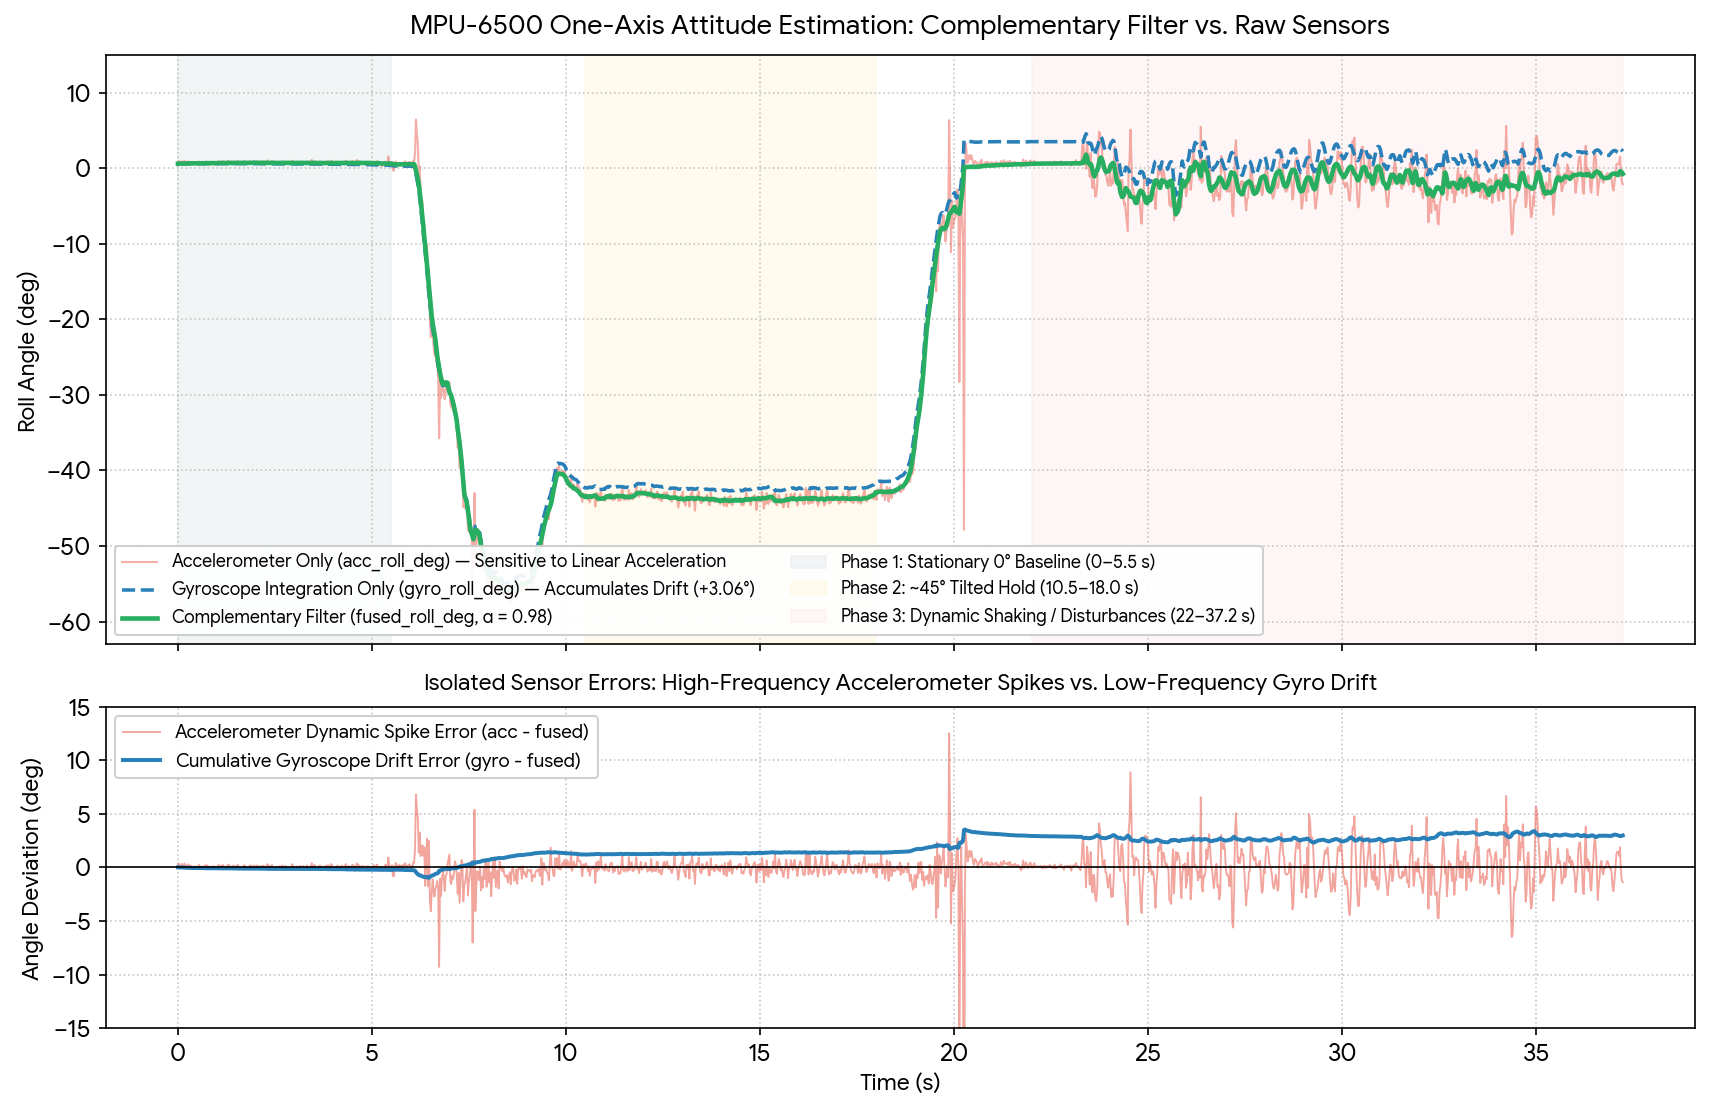
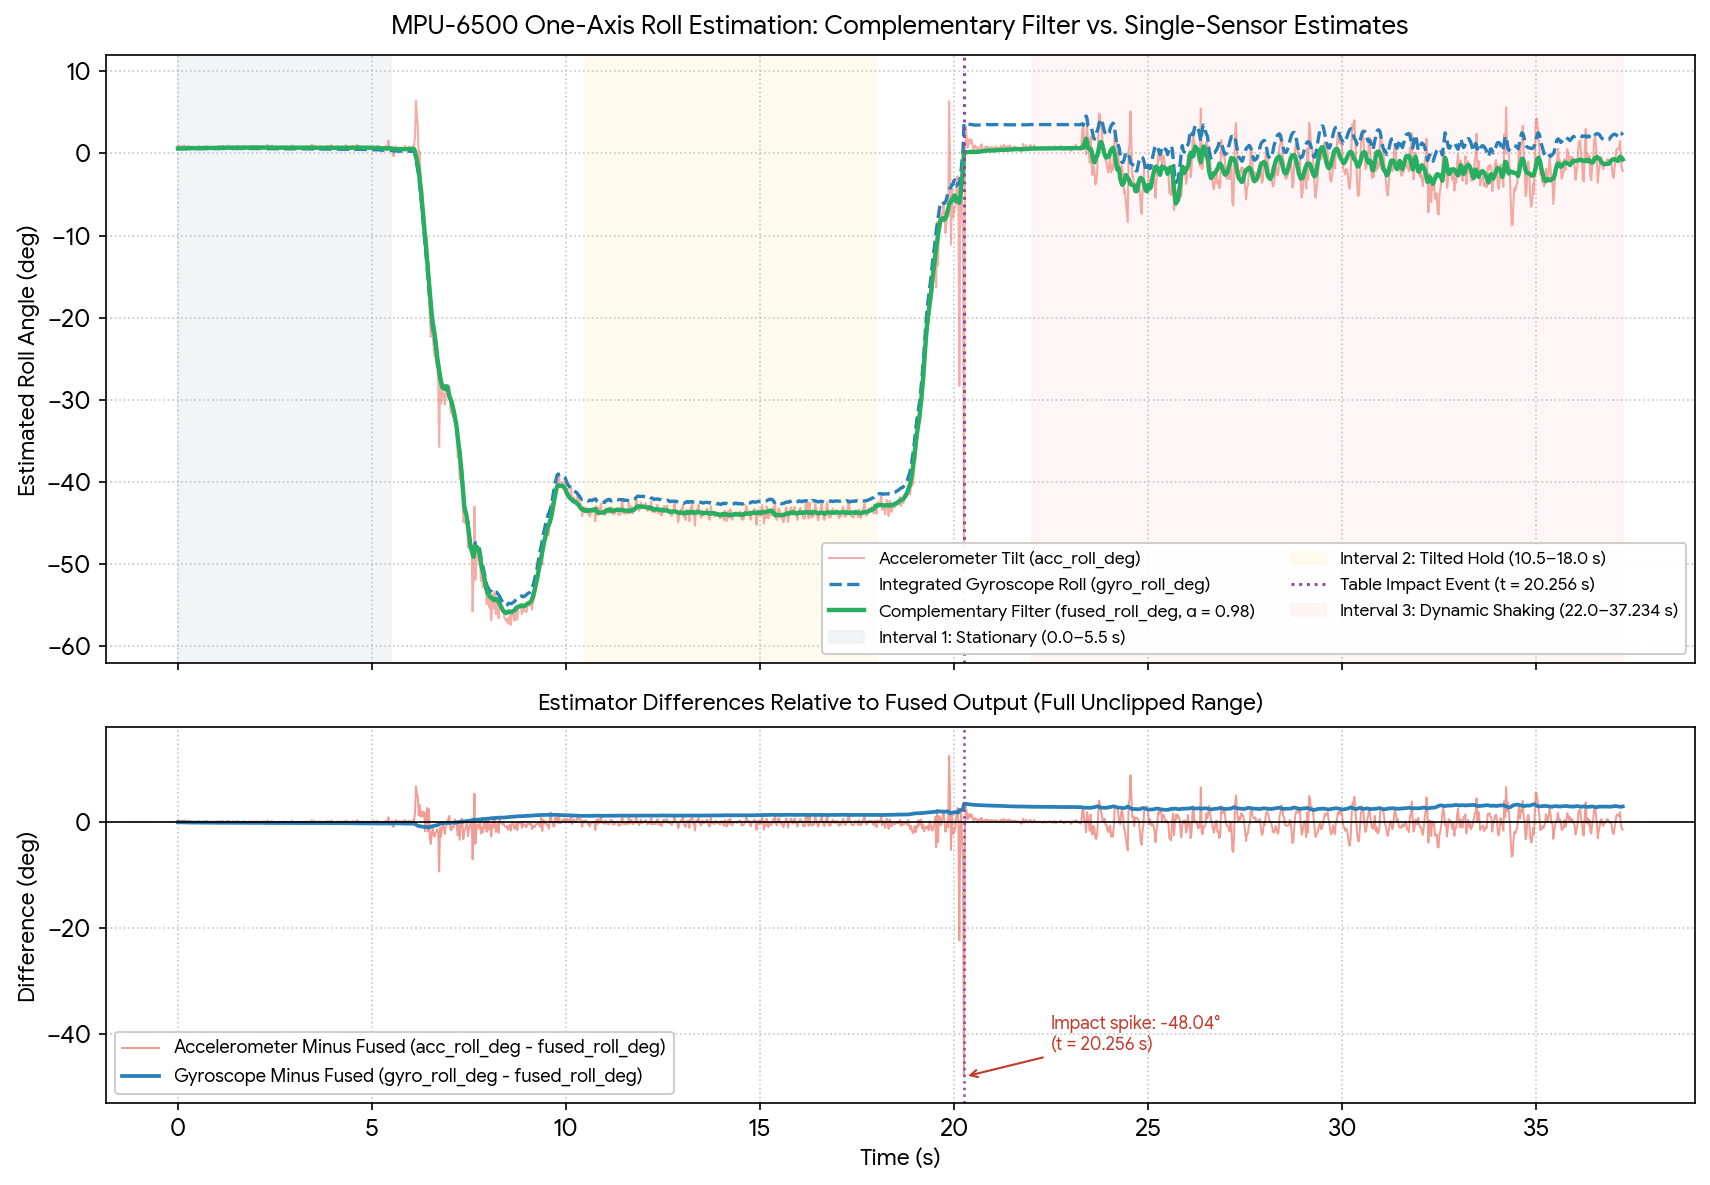
Update README and plot

diff --git a/scripts/plot_results.py b/scripts/plot_results.py
@@ -1,41 +1,55 @@
+```python
 import pandas as pd
 import matplotlib.pyplot as plt
 
-# Load recorded CSV telemetry
 df = pd.read_csv('data/complementary_filter_log.csv')
-df['gyro_drift'] = df['gyro_roll_deg'] - df['fused_roll_deg']
-df['acc_noise'] = df['acc_roll_deg'] - df['fused_roll_deg']
+df['acc_minus_fused'] = df['acc_roll_deg'] - df['fused_roll_deg']
+df['gyro_minus_fused'] = df['gyro_roll_deg'] - df['fused_roll_deg']
+
+# Print exact interval metrics
+intervals = {
+    'Interval 1: Stationary (0.0-5.5 s)': (df['time_s'] >= 0.0) & (df['time_s'] <= 5.5),
+    'Interval 2: Tilted Hold (10.5-18.0 s)': (df['time_s'] >= 10.5) & (df['time_s'] <= 18.0),
+    'Interval 3: Dynamic Shaking (22.0-37.234 s)': (df['time_s'] >= 22.0) & (df['time_s'] <= 37.234),
+}
+
+for name, mask in intervals.items():
+    sub = df.loc[mask, ['acc_roll_deg', 'gyro_roll_deg', 'fused_roll_deg']]
+    print(f"\n=== {name} (n={len(sub)}) ===")
+    print(sub.agg(['mean', 'median', 'min', 'max', 'std']).round(3))
 
 plt.rcParams['figure.dpi'] = 150
-fig, (ax1, ax2) = plt.subplots(2, 1, figsize=(11.5, 7.5), sharex=True, gridspec_kw={'height_ratios': [2.2, 1.2]})
+fig, (ax1, ax2) = plt.subplots(2, 1, figsize=(11.5, 7.8), sharex=True, gridspec_kw={'height_ratios': [2.1, 1.3]})
 
-# Top plot: Sensor Fusion comparison
-ax1.plot(df['time_s'], df['acc_roll_deg'], color='#e74c3c', alpha=0.45, linewidth=1.0, label='Accelerometer Only (acc_roll_deg) — Sensitive to Linear Acceleration')
-ax1.plot(df['time_s'], df['gyro_roll_deg'], color='#2980b9', linestyle='--', linewidth=1.7, label='Gyroscope Integration Only (gyro_roll_deg) — Accumulates Drift (+3.06°)')
-ax1.plot(df['time_s'], df['fused_roll_deg'], color='#27ae60', linewidth=2.2, label='Complementary Filter (fused_roll_deg, α = 0.98)')
+ax1.plot(df['time_s'], df['acc_roll_deg'], color='#e74c3c', alpha=0.45, linewidth=1.0, label='Accelerometer Tilt (acc_roll_deg)')
+ax1.plot(df['time_s'], df['gyro_roll_deg'], color='#2980b9', linestyle='--', linewidth=1.6, label='Integrated Gyroscope Roll (gyro_roll_deg)')
+ax1.plot(df['time_s'], df['fused_roll_deg'], color='#27ae60', linewidth=2.1, label='Complementary Filter (fused_roll_deg, α = 0.98)')
 
-ax1.axvspan(0, 5.5, color='#ecf0f1', alpha=0.65, label='Phase 1: Stationary 0° Baseline (0–5.5 s)')
-ax1.axvspan(10.5, 18.0, color='#fef9e7', alpha=0.75, label='Phase 2: ~45° Tilted Hold (10.5–18.0 s)')
-ax1.axvspan(22.0, 37.234, color='#fdedec', alpha=0.45, label='Phase 3: Dynamic Shaking / Disturbances (22–37.2 s)')
+ax1.axvspan(0, 5.5, color='#ecf0f1', alpha=0.65, label='Interval 1: Stationary (0.0–5.5 s)')
+ax1.axvspan(10.5, 18.0, color='#fef9e7', alpha=0.75, label='Interval 2: Tilted Hold (10.5–18.0 s)')
+ax1.axvline(20.256, color='#8e44ad', linestyle=':', linewidth=1.4, label='Table Impact Event (t = 20.256 s)')
+ax1.axvspan(22.0, 37.234, color='#fdedec', alpha=0.45, label='Interval 3: Dynamic Shaking (22.0–37.234 s)')
 
-ax1.set_title('MPU-6500 One-Axis Attitude Estimation: Complementary Filter vs. Raw Sensors', fontsize=13, fontweight='bold', pad=10)
-ax1.set_ylabel('Roll Angle (deg)', fontsize=11)
-ax1.set_ylim(-63, 15)
+ax1.set_title('MPU-6500 One-Axis Roll Estimation: Complementary Filter vs. Single-Sensor Estimates', fontsize=12.5, fontweight='bold', pad=10)
+ax1.set_ylabel('Estimated Roll Angle (deg)', fontsize=11)
+ax1.set_ylim(-62, 12)
 ax1.grid(True, linestyle=':', alpha=0.7)
-ax1.legend(loc='lower left', fontsize=8.5, ncol=2, framealpha=0.92)
+ax1.legend(loc='lower right', fontsize=8.4, ncol=2, framealpha=0.95)
 
-# Bottom plot: Isolated Sensor Errors
-ax2.plot(df['time_s'], df['acc_noise'], color='#e74c3c', alpha=0.5, linewidth=0.9, label='Accelerometer Dynamic Spike Error (acc - fused)')
-ax2.plot(df['time_s'], df['gyro_drift'], color='#2980b9', linewidth=1.9, label='Cumulative Gyroscope Drift Error (gyro - fused)')
+ax2.plot(df['time_s'], df['acc_minus_fused'], color='#e74c3c', alpha=0.55, linewidth=0.95, label='Accelerometer Minus Fused (acc_roll_deg - fused_roll_deg)')
+ax2.plot(df['time_s'], df['gyro_minus_fused'], color='#2980b9', linewidth=1.8, label='Gyroscope Minus Fused (gyro_roll_deg - fused_roll_deg)')
 ax2.axhline(0, color='black', linewidth=0.8, linestyle='-')
+ax2.axvline(20.256, color='#8e44ad', linestyle=':', linewidth=1.2)
+ax2.annotate('Impact spike: -48.04°\n(t = 20.256 s)', xy=(20.256, -48.04), xytext=(22.5, -43.0),
+             arrowprops=dict(arrowstyle='->', color='#c0392b', lw=1.0), fontsize=8.5, color='#c0392b', fontweight='bold')
 
-ax2.set_title('Isolated Sensor Errors: High-Frequency Accelerometer Spikes vs. Low-Frequency Gyro Drift', fontsize=11, fontweight='bold', pad=8)
+ax2.set_title('Estimator Differences Relative to Fused Output (Full Unclipped Range)', fontsize=11, fontweight='bold', pad=8)
 ax2.set_xlabel('Time (s)', fontsize=11)
-ax2.set_ylabel('Angle Deviation (deg)', fontsize=11)
-ax2.set_ylim(-15, 15)
+ax2.set_ylabel('Difference (deg)', fontsize=11)
+ax2.set_ylim(-53, 18)
 ax2.grid(True, linestyle=':', alpha=0.7)
-ax2.legend(loc='upper left', fontsize=9, framealpha=0.92)
+ax2.legend(loc='lower left', fontsize=8.8, framealpha=0.94)
 
 plt.tight_layout()
 plt.savefig('results/plots/complementary_filter_comparison.png', bbox_inches='tight')
-print("Plot saved to results/plots/complementary_filter_comparison.png")
+print("Saved results/plots/complementary_filter_comparison.png")

diff --git a/README.md b/README.md
@@ -1,29 +1,31 @@
-# IMU-Based Attitude Estimation & Control Platform (MPU-6500 / Arduino UNO)
+# One-Axis IMU Tilt Estimation & Sensor Fusion (MPU-6500 / Arduino UNO)
 
-An embedded systems and signal processing project developing a real-time attitude (roll tilt) estimation system on an **Arduino UNO R3** using a 6-axis **MPU-6500 MEMS IMU** over I²C. 
+An introductory first-year EEE embedded sensing and signal-processing project implementing one-axis roll tilt estimation on an **Arduino UNO R3** using a 6-axis **MPU-6500 MEMS IMU** over I²C.
 
-This repository documents the step-by-step engineering progression: hardware identification, six-position static accelerometer calibration, independent holdout tilt validation, gyroscope zero-rate bias compensation, and real-time discrete-time **Complementary Filter** sensor fusion.
+This repository documents the completed estimator milestone: register-level I²C acquisition via Arduino `Wire`, six-position static accelerometer calibration, startup gyroscope zero-rate bias compensation, discrete-time **Complementary Filter** fusion, and Python time-series analysis. Closed-loop servo actuation is scoped as future work.
 
 ---
 
-## 1. Hardware & I²C Configuration
+## 1. Hardware & Electrical Notes
 
-* **Microcontroller:** Arduino UNO R3 (ATmega328P)
-* **Sensor:** InvenSense MPU-6500 6-Axis IMU (`WHO_AM_I` register `0x75` verified as `0x70`, I²C address `0x68`)
-* **Interface:** Direct register-level I²C transactions using `<Wire.h>` (burst reads starting at `ACCEL_XOUT_H` `0x3B`, 16-bit signed two's complement reconstruction) without external black-box sensor libraries.
+* **Microcontroller:** Arduino UNO R3 (`ATmega328P`, 16 MHz)
+* **Sensor Breakout:** Multi-model carrier board marked `MPU-9250/6500/9255`; device identity register `WHO_AM_I` (`0x75`) read as `0x70` (MPU-6500) at I²C address `0x68`.
+* **Interface:** Burst register reads starting at `ACCEL_XOUT_H` (`0x3B`) using `<Wire.h>` and signed 16-bit two's complement decoding, without external IMU libraries.
 
-| MPU-6500 Pin | Arduino UNO Pin | Function |
+| Breakout Pin | Arduino UNO Pin | Function & Electrical Note |
 | :--- | :--- | :--- |
-| `VCC` | `5V` | Power supply (via onboard breakout regulator) |
+| `VCC` | `5V` | Power input to breakout onboard voltage regulator |
 | `GND` | `GND` | Common ground reference |
 | `SDA` | `A4 (SDA)` | I²C Serial Data |
 | `SCL` | `A5 (SCL)` | I²C Serial Clock |
+
+*Electrical compatibility note:* While the breakout's onboard regulator accepts `5V` on `VCC`, the MPU-6500 IC itself is a 3.3V device. Applying 5V logic directly from an Arduino UNO to `SDA`/`SCL` worked in these bench tests but should not be assumed universally safe for all MPU-6500 modules without verifying pull-up rails or level shifting.
 
 ---
 
 ## 2. Six-Position Accelerometer Calibration
 
-Using `firmware/accelerometer_average/accelerometer_average.ino` (averaging $N = 200$ samples per static orientation), raw 16-bit accelerometer readings were recorded across six orthogonal orientations (`data/accelerometer-six-position.txt`) to estimate per-axis zero-$g$ bias and sensitivity scale factors ($\pm 2g$ full-scale range, nominal $16384\text{ counts}/g$):
+Using `firmware/accelerometer_average/accelerometer_average.ino` ($N = 200$ samples averaged per static orientation), six orthogonal orientation means were recorded in `data/accelerometer-six-position.txt`. Per-axis offset (`bias`) and sensitivity (`scale`) for the nominal $\pm 2g$ range ($16384\text{ counts}/g$) were estimated from opposite faces:
 
 $$a_i = \frac{\text{raw}_i - \text{bias}_i}{\text{scale}_i} \quad [g]$$
 
@@ -33,41 +35,53 @@ $$a_i = \frac{\text{raw}_i - \text{bias}_i}{\text{scale}_i} \quad [g]$$
 | **Y** | $+276.66$ | $16405.48$ | $16384$ |
 | **Z** | $-697.16$ | $16627.08$ | $16384$ |
 
-### Holdout Tilt & Gravity-Vector Validation (`accelerometer_angle.ino`)
-To avoid circular validation on the calibration poses alone, the calibrated gravity vector norm $\|a\| = \sqrt{a_x^2 + a_y^2 + a_z^2}$ and static roll angle $\theta_{\text{acc}} = \text{atan2}(a_y, a_z) \cdot \frac{180}{\pi}$ were tested across independent static and dynamic conditions:
-
-* **Horizontal Baseline ($0^\circ$):** $a_x = -0.02g, a_y = 0.00g, a_z = 1.03g \rightarrow \|a\| = 1.03g$, $\theta_{\text{acc}} \in [-0.3^\circ, +0.4^\circ]$.
-* **Independent $\approx -45^\circ$ Holdout Tilt:** $a_x = 0.00g, a_y = -0.72g, a_z = 0.72g \rightarrow \|a\| = 1.02g$, $\theta_{\text{acc}} = -45.0^\circ$ (matching theoretical $\sin 45^\circ \approx 0.707g$ equal-axis projection).
-* **Vertical Edge ($\approx -90^\circ$, resting on header pins):** $a_x = -0.01g, a_y = -1.00g, a_z = 0.10g \rightarrow \|a\| = 1.00g$, $\theta_{\text{acc}} = -84.3^\circ$.
-* **Dynamic Shaking Disturbance:** Rapid hand acceleration saturated the $\pm 2g$ full-scale range ($a_x, a_y \approx 1.98g$, $\|a\| = 3.40g$), corrupting the accelerometer-only tilt estimate to $134.2^\circ$ and motivating gyroscope sensor fusion.
+### Reported Static Spot Checks (`accelerometer_angle.ino`)
+Static roll around the sensor X-axis is estimated from gravity projections on the Y–Z plane as $\theta_{\text{acc}} = \text{atan2}(a_y, a_z) \cdot \frac{180}{\pi}$ (valid primarily for rotation about X under zero linear acceleration). During bench checks in Serial Monitor (`115200 baud`), the following manual poses were observed (reported spot checks without an independent metrological angle fixture):
+* **Flat on table ($\approx 0^\circ$):** $a_x = -0.02g, a_y = 0.00g, a_z = 1.03g \rightarrow \|a\| = 1.03g$, $\theta_{\text{acc}} \in [-0.3^\circ, +0.4^\circ]$.
+* **Manual $\approx -45^\circ$ tilt:** $a_x = 0.00g, a_y = -0.72g, a_z = 0.72g \rightarrow \|a\| = 1.02g$, $\theta_{\text{acc}} = -45.0^\circ$.
+* **Resting on side header pins ($\approx -90^\circ$):** $a_x = -0.01g, a_y = -1.00g, a_z = 0.10g \rightarrow \|a\| = 1.00g$, $\theta_{\text{acc}} = -84.3^\circ$.
+* **Vigorous hand shaking:** Individual axes reached $\approx 1.98g$ (near the $\pm 2g$ per-axis ceiling, $\|a\| = 3.40g$), producing transient $\theta_{\text{acc}}$ values up to $134.2^\circ$ due to linear acceleration.
 
 ---
 
-## 3. Complementary Sensor Fusion & Experimental Results
+## 3. One-Axis Complementary Sensor Fusion & Telemetry Analysis
 
-Implemented in `firmware/complementary_filter/complementary_filter.ino`, the estimator performs a 500-sample stationary gyroscope bias calibration at startup, tracks loop execution intervals $\Delta t$ via `micros()` (effective sampling rate $41.87\text{ Hz}$, mean $\Delta t = 23.88\text{ ms}$), and fuses gyroscope integration with accelerometer gravity reference ($\alpha = 0.98$):
+Implemented in `firmware/complementary_filter/complementary_filter.ino`, the sketch averages 500 stationary gyro-X samples at startup to estimate zero-rate offset, measures loop intervals $\Delta t$ via `micros()`, and updates a scalar complementary filter ($\alpha = 0.98$, time constant $\tau \approx 1.17\text{ s}$ at the mean polling rate of $41.87\text{ Hz}$, $\Delta t_{\text{mean}} = 23.88\text{ ms}$):
 
 $$\theta_{\text{fused}}[k] = \alpha \left(\theta_{\text{fused}}[k-1] + \omega_x[k]\Delta t\right) + (1 - \alpha)\theta_{\text{acc}}[k]$$
 
 ![Complementary Filter Comparison](results/plots/complementary_filter_comparison.png)
 
-### Key Measured Performance Metrics (`data/complementary_filter_log.csv`, 1560 samples / 37.2 s)
+### Measured Interval Statistics (`data/complementary_filter_log.csv`, 1,560 samples / 37.234 s)
 
-| Experimental Phase | Accelerometer Only (`acc_roll_deg`) | Gyroscope Only (`gyro_roll_deg`) | Complementary Filter (`fused_roll_deg`) | Key Engineering Observation |
-| :--- | :--- | :--- | :--- | :--- |
-| **Phase 1: Stationary Baseline ($0\text{–}5.5\text{ s}$)** | Mean: $+0.74^\circ$<br>Std: $0.142^\circ$ | Mean: $+0.55^\circ$<br>Std: $0.056^\circ$ | Mean: $+0.69^\circ$<br>Std: **$0.030^\circ$** | **$4.69\times$ reduction** in stationary RMS noise vs. raw accelerometer. |
-| **Phase 2: Tilted Hold ($10.5\text{–}18.0\text{ s}$)** | Mean: $-43.68^\circ$<br>Std: $0.560^\circ$ | Mean: $-42.34^\circ$<br>*(drifting)* | Mean: **$-43.66^\circ$**<br>Std: **$0.239^\circ$** | Accurately tracks $-43.7^\circ$ hold while reducing hand-tremor variance by **$2.35\times$**. |
-| **Phase 3: Impact & Shaking ($20.0\text{–}37.2\text{ s}$)** | Spike up to **$-47.85^\circ$**<br>Std: $2.28^\circ$ | Accumulated drift: **$+3.06^\circ$** ($+0.085^\circ/\text{s}$) | Mean: $-1.44^\circ$<br>Std: **$1.35^\circ$** | Rejects $-48.0^\circ$ table-impact acceleration spike and eliminates cumulative gyro drift. |
+| Interval / Event | Samples ($n$) | Accelerometer Tilt (`acc_roll_deg`) | Integrated Gyro X (`gyro_roll_deg`) | Complementary Filter (`fused_roll_deg`) | Observed Behaviour |
+| :--- | ---: | :--- | :--- | :--- | :--- |
+| **Interval 1: Stationary (`0.0–5.5 s`)** | 232 | Mean: $+0.74^\circ$<br>Std: $0.142^\circ$ | Mean: $+0.55^\circ$<br>Std: $0.056^\circ$ | Mean: $+0.69^\circ$<br>Std: **$0.030^\circ$** | **$4.69\times$ lower output standard deviation** (scatter around mean) than accelerometer tilt. |
+| **Interval 2: Tilted Hold (`10.5–18.0 s`)** | 312 | Mean: $-43.68^\circ$<br>Std: $0.560^\circ$ | Mean: $-42.34^\circ$<br>Std: $0.216^\circ$ | Mean: $-43.66^\circ$<br>Std: **$0.239^\circ$** | **$2.35\times$ lower standard deviation** ($5.50\times$ lower variance) than raw accelerometer tilt during manual hold. |
+| **Impact Event (`t = 20.256 s`)** | 1 | **$-47.85^\circ$** | $+3.67^\circ$ | **$+0.19^\circ$** *(prev: $-2.04^\circ$)* | Attenuates the transient table-impact spike (`acc - fused = -48.04°`), though $2\%$ of single-sample linear acceleration still enters the recurrence. |
+| **Interval 3: Dynamic Shaking (`22.0–37.234 s`)** | 639 | Mean: $-1.44^\circ$<br>Std: $2.278^\circ$ | Mean: $+1.34^\circ$<br>Std: $1.386^\circ$ | Mean: $-1.44^\circ$<br>Std: **$1.345^\circ$** | Reduces dynamic scatter; by $37.234\text{ s}$, `gyro_roll_deg` ($+2.24^\circ$) and `fused_roll_deg` ($-0.74^\circ$) diverge by **$2.98^\circ$** as the filter tracks the long-term gravity reference. |
+
+*Limitations:* Without an external optical/mechanical angle reference, these metrics quantify relative estimator scatter and divergence rather than absolute angular accuracy. The scalar update assumes rotation predominantly about the X-axis and does not handle $\pm 180^\circ$ `atan2` wrap-around or 3D Euler coupling.
 
 ---
 
-## 4. Repository Structure
+## 4. Quick Start & Reproduction
 
-* `firmware/accelerometer_average/accelerometer_average.ino` — 200-sample averaging sketch for static 6-position calibration.
-* `firmware/accelerometer_angle/accelerometer_angle.ino` — Calibrated $g$-unit conversion, vector norm verification, and `atan2` roll estimation.
-* `firmware/complementary_filter/complementary_filter.ino` — Startup gyro bias calibration, `micros()` integration, and real-time complementary filter with CSV serial telemetry.
-* `data/` — Recorded 6-orientation calibration dataset and 1560-sample (`41.9 Hz`) real-time sensor fusion CSV log.
-* `results/plots/` — Time-series comparison and isolated sensor error plots.
+1. **Firmware Upload (Arduino IDE):** Select `Arduino Uno` (`ATmega328P`), connect the MPU-6500 as above, and upload:
+   * `firmware/accelerometer_average/accelerometer_average.ino` (`9600 baud`) for 200-sample static calibration averages.
+   * `firmware/accelerometer_angle/accelerometer_angle.ino` (`115200 baud`) for calibrated $g$-units, vector norm, and static roll.
+   * `firmware/complementary_filter/complementary_filter.ino` (`115200 baud`) for fused CSV output. Keep the board stationary for the first ~2 seconds after reset during 500-sample gyro bias calibration.
+2. **Plot & Statistics Reproduction (Python 3):**
+   ```bash
+   pip install pandas matplotlib
+   python scripts/plot_results.py
 
 ## 5. Next Steps (Milestone D)
+
 * Design a mechanically constrained 1-DOF tiltable test rig with an SG90 servo actuator and separate power supply to close an external P/PD attitude stabilisation loop.
+
+---
+
+## 6. Provenance & Acknowledgements
+
+Developed by Andrey Maltsev (Year 1 BEng EEE, University of Manchester) as a hands-on learning project. Hardware wiring, sensor probing (`WHO_AM_I = 0x70`), 6-position data collection, bench experiments, and Serial telemetry capture were performed by the student; AI assistants (ChatGPT / Gemini) were used for roadmap structuring, code/plotting templates, and documentation review.
